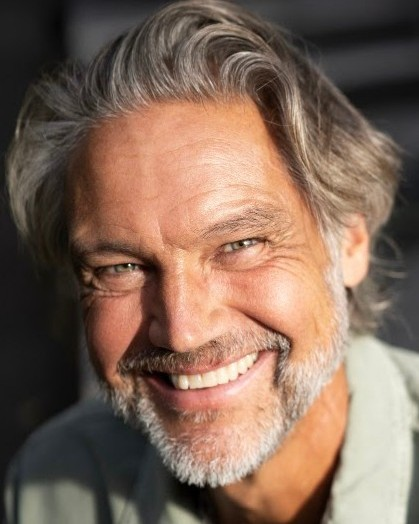
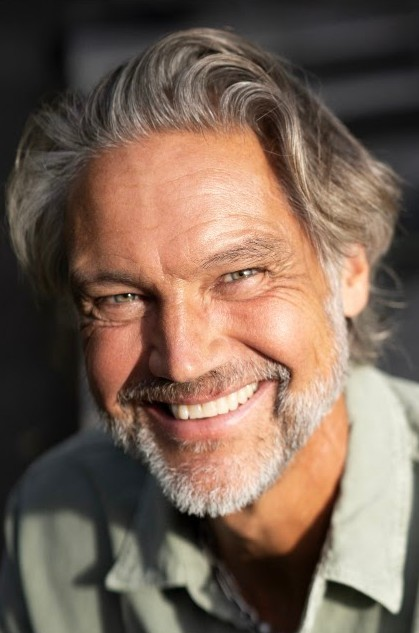
Über uns: Porträt in Originalproportionen ohne Beschnitt
Claude-Session: https://claude.ai/code/session_01BjkEN2dsWrJUghU3tq2DZJ

diff --git a/site/index.html b/site/index.html
@@ -614,7 +614,7 @@ body{line-height:1.55}
   .thero-sub{white-space:normal}
   .thero .thero-cap{bottom:18px;left:max(16px,env(safe-area-inset-left,0px));right:auto;white-space:nowrap}
 }
-.portrait{margin:0;min-width:0;width:100%;max-width:320px;justify-self:start;align-self:start}.portrait img{display:block;width:100%;height:auto;aspect-ratio:4/5;object-fit:cover;filter:grayscale(1)}.portrait figcaption{margin-top:12px;font-family:var(--head);font-weight:600;font-size:12px;letter-spacing:.14em;text-transform:uppercase;color:var(--muted)}
+.portrait{margin:0;min-width:0;width:100%;max-width:320px;justify-self:start;align-self:start}.portrait img{display:block;width:100%;height:auto;filter:grayscale(1)}.portrait figcaption{margin-top:12px;font-family:var(--head);font-weight:600;font-size:12px;letter-spacing:.14em;text-transform:uppercase;color:var(--muted)}
 .soon{display:inline-block;margin:0 0 18px;padding:7px 14px;background:#f0f400;color:#303133;font-family:var(--head);font-weight:700;font-size:13px;letter-spacing:.16em;text-transform:uppercase;transform:rotate(-2deg)}.soon-note{margin-top:14px;color:var(--muted)}.soon-note a{color:var(--red);font-weight:500}
 .ref-soon{margin-top:clamp(28px,4vw,44px);display:flex;align-items:center;gap:16px;flex-wrap:wrap}.ref-soon .soon{margin:0}.ref-soon p{margin:0;color:var(--muted)}
 .ub .wf-bahn{cursor:grab}.ub .wf-bahn.ziehen{cursor:grabbing;scroll-snap-type:none;user-select:none;-webkit-user-select:none}
@@ -1234,7 +1234,7 @@ html.over-hero .thero-in{justify-content:flex-end!important;padding-bottom:clamp
 
   <section id="ueber" class="alt">
     <div class="wrap about">
-      <figure class="portrait"><picture><source srcset="img/alexander-windisch.webp?v=202611171350" type="image/webp"><img src="img/alexander-windisch.jpg?v=202611171350" width="419" height="524" alt="Alexander Windisch, Inhaber der Agentur Capeeshee" loading="lazy" decoding="async"></picture><figcaption>Alexander Windisch, Inhaber</figcaption></figure>
+      <figure class="portrait"><picture><source srcset="img/alexander-windisch.webp?v=202611171410" type="image/webp"><img src="img/alexander-windisch.jpg?v=202611171410" width="419" height="633" alt="Alexander Windisch, Inhaber der Agentur Capeeshee" loading="lazy" decoding="async"></picture><figcaption>Alexander Windisch, Inhaber</figcaption></figure>
       <div>
         <p class="eyebrow">Über uns</p>
         <h2>Persönlich. Erfahren. <span class="red">Neu aufgestellt.</span></h2>

diff --git a/site/404.html b/site/404.html
@@ -613,7 +613,7 @@ body{line-height:1.55}
   .thero-sub{white-space:normal}
   .thero .thero-cap{bottom:18px;left:max(16px,env(safe-area-inset-left,0px));right:auto;white-space:nowrap}
 }
-.portrait{margin:0;min-width:0;width:100%;max-width:320px;justify-self:start;align-self:start}.portrait img{display:block;width:100%;height:auto;aspect-ratio:4/5;object-fit:cover;filter:grayscale(1)}.portrait figcaption{margin-top:12px;font-family:var(--head);font-weight:600;font-size:12px;letter-spacing:.14em;text-transform:uppercase;color:var(--muted)}
+.portrait{margin:0;min-width:0;width:100%;max-width:320px;justify-self:start;align-self:start}.portrait img{display:block;width:100%;height:auto;filter:grayscale(1)}.portrait figcaption{margin-top:12px;font-family:var(--head);font-weight:600;font-size:12px;letter-spacing:.14em;text-transform:uppercase;color:var(--muted)}
 .soon{display:inline-block;margin:0 0 18px;padding:7px 14px;background:#f0f400;color:#303133;font-family:var(--head);font-weight:700;font-size:13px;letter-spacing:.16em;text-transform:uppercase;transform:rotate(-2deg)}.soon-note{margin-top:14px;color:var(--muted)}.soon-note a{color:var(--red);font-weight:500}
 .ref-soon{margin-top:clamp(28px,4vw,44px);display:flex;align-items:center;gap:16px;flex-wrap:wrap}.ref-soon .soon{margin:0}.ref-soon p{margin:0;color:var(--muted)}
 .ub .wf-bahn{cursor:grab}.ub .wf-bahn.ziehen{cursor:grabbing;scroll-snap-type:none;user-select:none;-webkit-user-select:none}

diff --git a/site/datenschutz/index.html b/site/datenschutz/index.html
@@ -615,7 +615,7 @@ body{line-height:1.55}
   .thero-sub{white-space:normal}
   .thero .thero-cap{bottom:18px;left:max(16px,env(safe-area-inset-left,0px));right:auto;white-space:nowrap}
 }
-.portrait{margin:0;min-width:0;width:100%;max-width:320px;justify-self:start;align-self:start}.portrait img{display:block;width:100%;height:auto;aspect-ratio:4/5;object-fit:cover;filter:grayscale(1)}.portrait figcaption{margin-top:12px;font-family:var(--head);font-weight:600;font-size:12px;letter-spacing:.14em;text-transform:uppercase;color:var(--muted)}
+.portrait{margin:0;min-width:0;width:100%;max-width:320px;justify-self:start;align-self:start}.portrait img{display:block;width:100%;height:auto;filter:grayscale(1)}.portrait figcaption{margin-top:12px;font-family:var(--head);font-weight:600;font-size:12px;letter-spacing:.14em;text-transform:uppercase;color:var(--muted)}
 .soon{display:inline-block;margin:0 0 18px;padding:7px 14px;background:#f0f400;color:#303133;font-family:var(--head);font-weight:700;font-size:13px;letter-spacing:.16em;text-transform:uppercase;transform:rotate(-2deg)}.soon-note{margin-top:14px;color:var(--muted)}.soon-note a{color:var(--red);font-weight:500}
 .ref-soon{margin-top:clamp(28px,4vw,44px);display:flex;align-items:center;gap:16px;flex-wrap:wrap}.ref-soon .soon{margin:0}.ref-soon p{margin:0;color:var(--muted)}
 .ub .wf-bahn{cursor:grab}.ub .wf-bahn.ziehen{cursor:grabbing;scroll-snap-type:none;user-select:none;-webkit-user-select:none}

diff --git a/site/impressum/index.html b/site/impressum/index.html
@@ -615,7 +615,7 @@ body{line-height:1.55}
   .thero-sub{white-space:normal}
   .thero .thero-cap{bottom:18px;left:max(16px,env(safe-area-inset-left,0px));right:auto;white-space:nowrap}
 }
-.portrait{margin:0;min-width:0;width:100%;max-width:320px;justify-self:start;align-self:start}.portrait img{display:block;width:100%;height:auto;aspect-ratio:4/5;object-fit:cover;filter:grayscale(1)}.portrait figcaption{margin-top:12px;font-family:var(--head);font-weight:600;font-size:12px;letter-spacing:.14em;text-transform:uppercase;color:var(--muted)}
+.portrait{margin:0;min-width:0;width:100%;max-width:320px;justify-self:start;align-self:start}.portrait img{display:block;width:100%;height:auto;filter:grayscale(1)}.portrait figcaption{margin-top:12px;font-family:var(--head);font-weight:600;font-size:12px;letter-spacing:.14em;text-transform:uppercase;color:var(--muted)}
 .soon{display:inline-block;margin:0 0 18px;padding:7px 14px;background:#f0f400;color:#303133;font-family:var(--head);font-weight:700;font-size:13px;letter-spacing:.16em;text-transform:uppercase;transform:rotate(-2deg)}.soon-note{margin-top:14px;color:var(--muted)}.soon-note a{color:var(--red);font-weight:500}
 .ref-soon{margin-top:clamp(28px,4vw,44px);display:flex;align-items:center;gap:16px;flex-wrap:wrap}.ref-soon .soon{margin:0}.ref-soon p{margin:0;color:var(--muted)}
 .ub .wf-bahn{cursor:grab}.ub .wf-bahn.ziehen{cursor:grabbing;scroll-snap-type:none;user-select:none;-webkit-user-select:none}

diff --git a/site/referenzen/index.html b/site/referenzen/index.html
@@ -615,7 +615,7 @@ body{line-height:1.55}
   .thero-sub{white-space:normal}
   .thero .thero-cap{bottom:18px;left:max(16px,env(safe-area-inset-left,0px));right:auto;white-space:nowrap}
 }
-.portrait{margin:0;min-width:0;width:100%;max-width:320px;justify-self:start;align-self:start}.portrait img{display:block;width:100%;height:auto;aspect-ratio:4/5;object-fit:cover;filter:grayscale(1)}.portrait figcaption{margin-top:12px;font-family:var(--head);font-weight:600;font-size:12px;letter-spacing:.14em;text-transform:uppercase;color:var(--muted)}
+.portrait{margin:0;min-width:0;width:100%;max-width:320px;justify-self:start;align-self:start}.portrait img{display:block;width:100%;height:auto;filter:grayscale(1)}.portrait figcaption{margin-top:12px;font-family:var(--head);font-weight:600;font-size:12px;letter-spacing:.14em;text-transform:uppercase;color:var(--muted)}
 .soon{display:inline-block;margin:0 0 18px;padding:7px 14px;background:#f0f400;color:#303133;font-family:var(--head);font-weight:700;font-size:13px;letter-spacing:.16em;text-transform:uppercase;transform:rotate(-2deg)}.soon-note{margin-top:14px;color:var(--muted)}.soon-note a{color:var(--red);font-weight:500}
 .ref-soon{margin-top:clamp(28px,4vw,44px);display:flex;align-items:center;gap:16px;flex-wrap:wrap}.ref-soon .soon{margin:0}.ref-soon p{margin:0;color:var(--muted)}
 .ub .wf-bahn{cursor:grab}.ub .wf-bahn.ziehen{cursor:grabbing;scroll-snap-type:none;user-select:none;-webkit-user-select:none}
